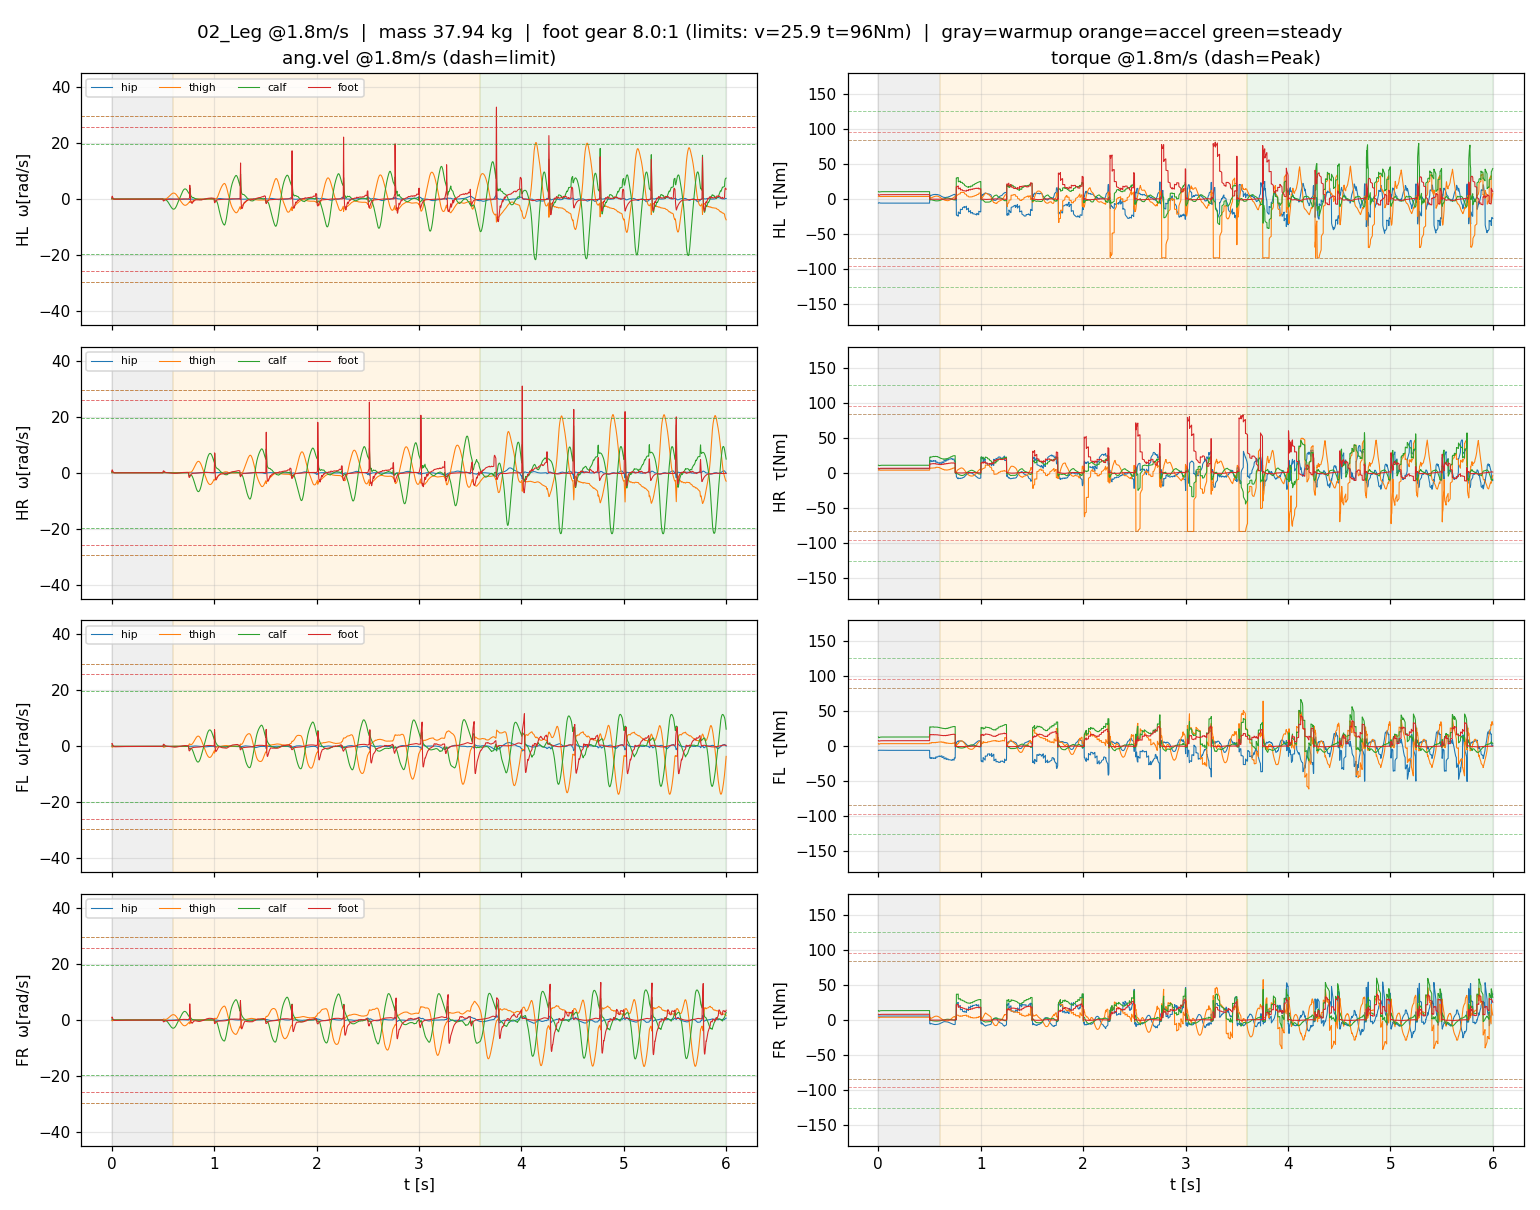
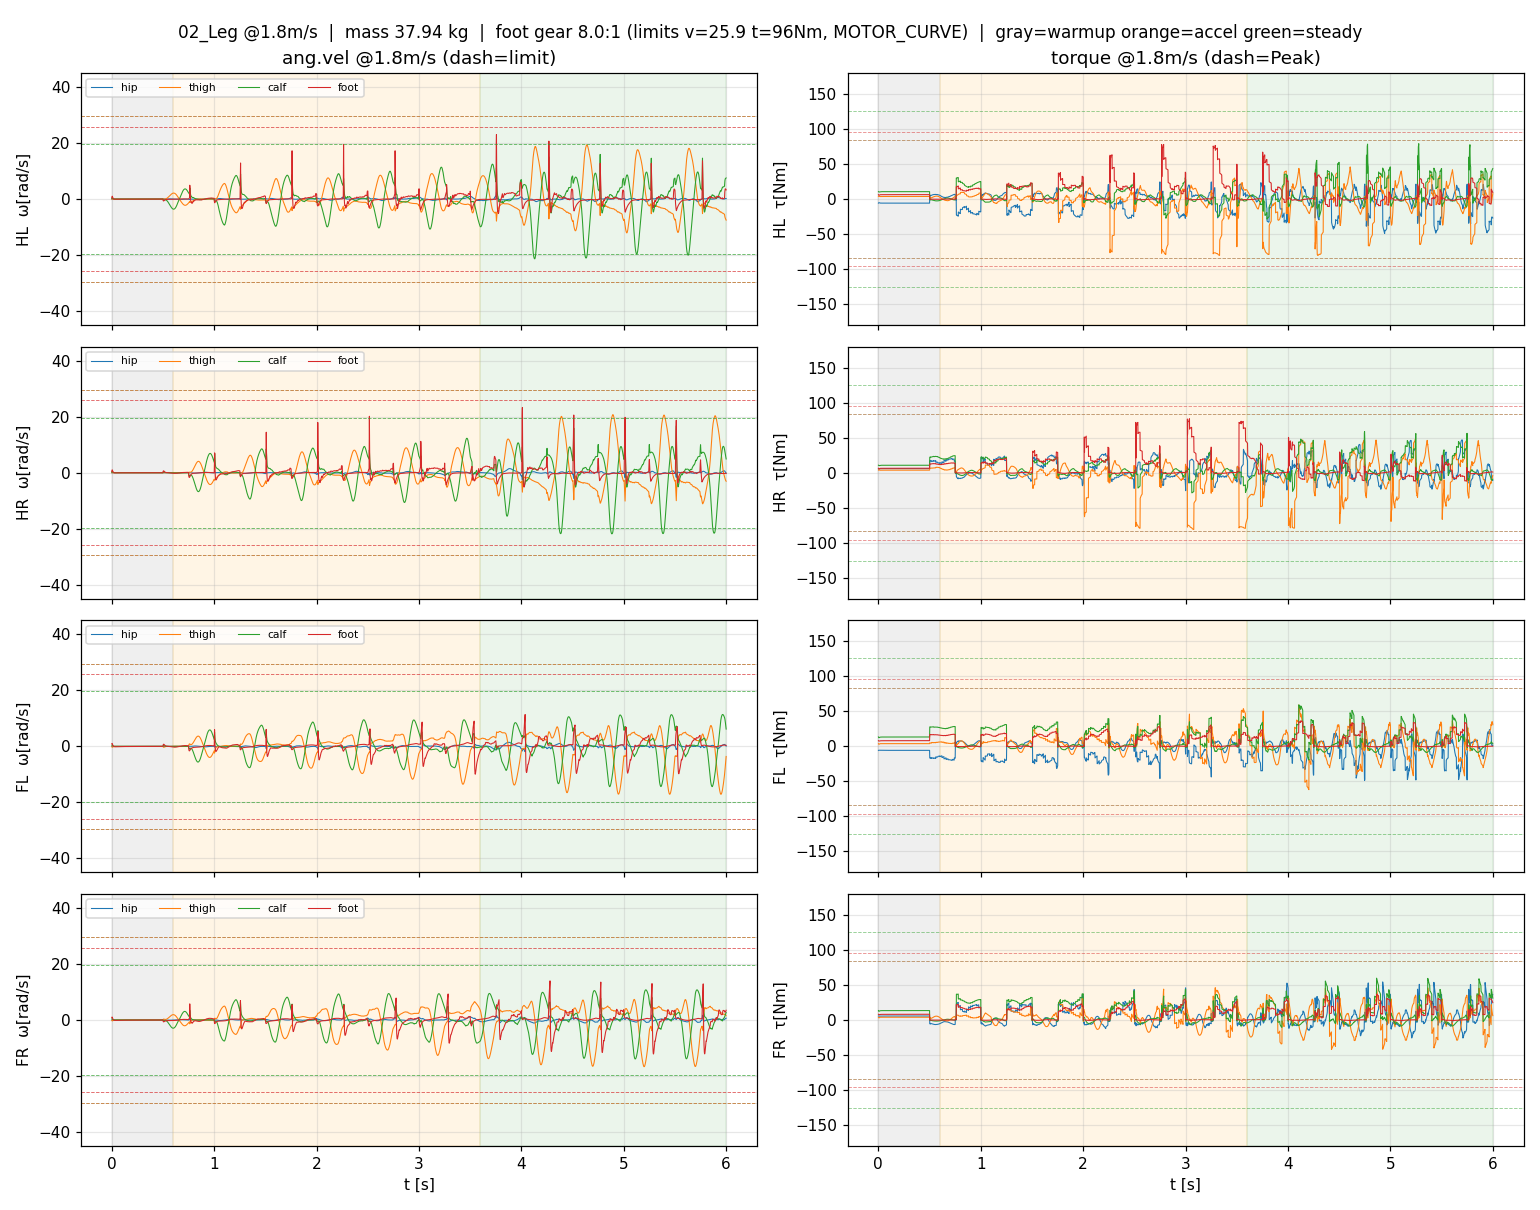
C++ MOTOR_CURVE 포팅(속도-토크곡선) + 재기어 속도한계 + 그래프 갱신
- 가용토크=tau_peak·max(0,1−|ω|/w_limit): 고속서 토크↓ → 발목 과속 억제.
  w_limit=207/N(재기어 반영). MOTOR_CURVE=1로 켬. Python line 425-429 일치.
- 검증(foot 8:1): 발목 ω 35→24 rad/s(한계 25.9 이내), falls=0.
- 그래프(1.0/1.8) MOTOR_CURVE+8:1 반영 재생성.

diff --git a/quad/cpp/src/quad_control.hpp b/quad/cpp/src/quad_control.hpp
@@ -33,7 +33,8 @@ struct QuadControl {
   int waist_idx=-1;                                       // ★허리(FB_waist) nu-index(없으면 -1=16DOF). 큰 몸통DOF라 전용 강홀드
   double waist_ref=0.0, WAIST_W=80.0, WAIST_KP=150.0, WAIST_KD=20.0;  // 요각목표(조향시 갱신)·홀드가중·PD
   VectorXd q_home; Vector3d com_ref;
-  VectorXd tau_peak, qmin, qmax; std::vector<char> is_ankle;
+  VectorXd tau_peak, qmin, qmax, w_limit; std::vector<char> is_ankle;   // w_limit=관절속도한계[rad/s]=207/N
+  bool motor_curve=false;                                 // ★MOTOR_CURVE: 가용토크=tau_peak·max(0,1−|ω|/w_limit) (고속서↓=실모터)
   std::array<Vector2d,4> foot_hip_off; std::array<double,4> foot_gz0;
   MpcCfg mpc; double _body_terr=0.0;
   eiquadprog::solvers::EiquadprogFast _qp_st, _qp_tr;
@@ -62,6 +63,7 @@ struct QuadControl {
     }
     // tau_peak / qmin·qmax / ankle (non-free joint 순서=actuator)
     tau_peak.resize(nu); qmin.resize(nu); qmax.resize(nu); is_ankle.assign(nu,0);
+    w_limit.setConstant(nu,1e8);   // 관절속도한계(재기어 블록서 207/N로 설정)
     int a=0; for(int j=0;j<m->njnt;j++){ if(m->jnt_type[j]==mjJNT_FREE) continue;
       double frc=m->jnt_actfrcrange[j*2+1]; tau_peak[a]=frc>0?frc:1e8;
       if(m->jnt_limited[j]){ qmin[a]=m->jnt_range[j*2]; qmax[a]=m->jnt_range[j*2+1]; } else { qmin[a]=-1e9; qmax[a]=1e9; }
@@ -84,6 +86,7 @@ struct QuadControl {
         const char* jn=mj_id2name(m,mjOBJ_JOINT,jid); if(!jn) continue;
         int gi=0; for(int g=0;g<4;g++) if(std::strstr(jn,GN[g])) gi=g;
         double gmul=getenv(GE[gi])?atof(getenv(GE[gi])):1.0;
+        w_limit[k]=207.0/(gear[gi]*gmul);                            // ★관절속도한계=motor_noload/N (MOTOR_CURVE용)
         if(gmul!=1.0 && tau_peak[k]<1e7) tau_peak[k]*=gmul;          // ★재기어 토크한계(QP 부등식이 사용)
         if(gbx){ double N=gear[gi]*gmul; int dof=m->jnt_dofadr[jid];
           m->dof_armature[dof]=Irot*N*N; m->dof_damping[dof]=jdmp; m->dof_frictionloss[dof]=jfrc; } }
@@ -201,7 +204,9 @@ struct QuadControl {
     if(st!=eiquadprog::solvers::EIQUADPROG_FAST_OPTIMAL) return false;
     VectorXd qdd=x.head(nv); VectorXd tau=M.block(6,0,nu,nv)*qdd+h.segment(6,nu);
     for(int k=0;k<K;k++) tau-=Js[k].block(0,6,3,nu).transpose()*x.segment(nv+3*k,3);
-    for(int i=0;i<nu;i++) d->ctrl[i]=std::max(-tau_peak[i],std::min(tau_peak[i],tau[i]));
+    for(int i=0;i<nu;i++){ double lim=tau_peak[i];
+      if(motor_curve && w_limit[i]<1e7) lim=tau_peak[i]*std::max(0.0,1.0-std::abs(d->qvel[6+i])/w_limit[i]);  // ★고속서 가용토크↓(실모터 토크-속도곡선)
+      d->ctrl[i]=std::max(-lim,std::min(lim,tau[i])); }
     return true;
   }
   // ── wbic_track (검증3과 동일: 기본경로) ──
@@ -281,7 +286,9 @@ struct QuadControl {
     if(st!=eiquadprog::solvers::EIQUADPROG_FAST_OPTIMAL) return false;
     VectorXd qdd=x.head(nv); VectorXd tau=M.block(6,0,nu,nv)*qdd+h.segment(6,nu);
     for(int k=0;k<Kc;k++) tau-=cjac[k].block(0,6,3,nu).transpose()*x.segment(sl(k),3);
-    for(int i=0;i<nu;i++) d->ctrl[i]=std::max(-tau_peak[i],std::min(tau_peak[i],tau[i]));
+    for(int i=0;i<nu;i++){ double lim=tau_peak[i];
+      if(motor_curve && w_limit[i]<1e7) lim=tau_peak[i]*std::max(0.0,1.0-std::abs(d->qvel[6+i])/w_limit[i]);  // ★고속서 가용토크↓(실모터 토크-속도곡선)
+      d->ctrl[i]=std::max(-lim,std::min(lim,tau[i])); }
     return true;
   }
 };

diff --git a/quad/cpp/src/trot_controller.hpp b/quad/cpp/src/trot_controller.hpp
@@ -181,6 +181,7 @@ static inline void apply_env_gains(QuadControl& q){
   if(getenv("W_ORI")) q.w_ori=atof(getenv("W_ORI"));
   if(getenv("W_YAW")) q.w_yaw=atof(getenv("W_YAW"));      // yaw 헤딩홀드 가중(17dof=0권장:선회민감, 14dof=5:직진드리프트방지)
   if(getenv("MU")){ q.MU=atof(getenv("MU")); q.mpc.MU=q.MU*q.MU_MARGIN; }  // ★마찰콘 μ(물리 geom=1.3, 기존 0.6은 과보수→선회 GRF 포화)
+  if(getenv("MOTOR_CURVE")) q.motor_curve=true;    // ★토크-속도곡선: 고속서 가용토크↓(속도한계 QP 반영)
   if(getenv("WAIST_W")) q.WAIST_W=atof(getenv("WAIST_W"));    // ★허리 홀드가중
   if(getenv("WAIST_KP")) q.WAIST_KP=atof(getenv("WAIST_KP")); if(getenv("WAIST_KD")) q.WAIST_KD=atof(getenv("WAIST_KD"));
   if(getenv("SWING_W")){ double v=atof(getenv("SWING_W")); q.swing_w_r=v; q.swing_w_f=v; }

diff --git a/quad/plot_perfoot.py b/quad/plot_perfoot.py
@@ -68,8 +68,9 @@ for r, leg in enumerate(LEGS):
         ax_t.set_title('torque @%.1fm/s (dash=Peak)' % V)
 axes[-1, 0].set_xlabel('t [s]'); axes[-1, 1].set_xlabel('t [s]')
 mtxt = ('mass %.2f kg  |  ' % mass) if mass else ''
-fig.suptitle('02_Leg @%.1fm/s  |  %sfoot gear %.1f:1 (limits: v=%.1f t=%.0fNm)  |  gray=warmup orange=accel green=steady'
-             % (V, mtxt, GEARN['foot'], WL['foot'], TL['foot']), fontsize=12)
+mc = 'MOTOR_CURVE' if os.environ.get('MOTOR_CURVE') else 'no motor-curve'
+fig.suptitle('02_Leg @%.1fm/s  |  %sfoot gear %.1f:1 (limits v=%.1f t=%.0fNm, %s)  |  gray=warmup orange=accel green=steady'
+             % (V, mtxt, GEARN['foot'], WL['foot'], TL['foot'], mc), fontsize=11)
 fig.tight_layout()
 fig.savefig(out, dpi=110)
 print('총질량: %s kg' % (('%.2f' % mass) if mass else '?'))
